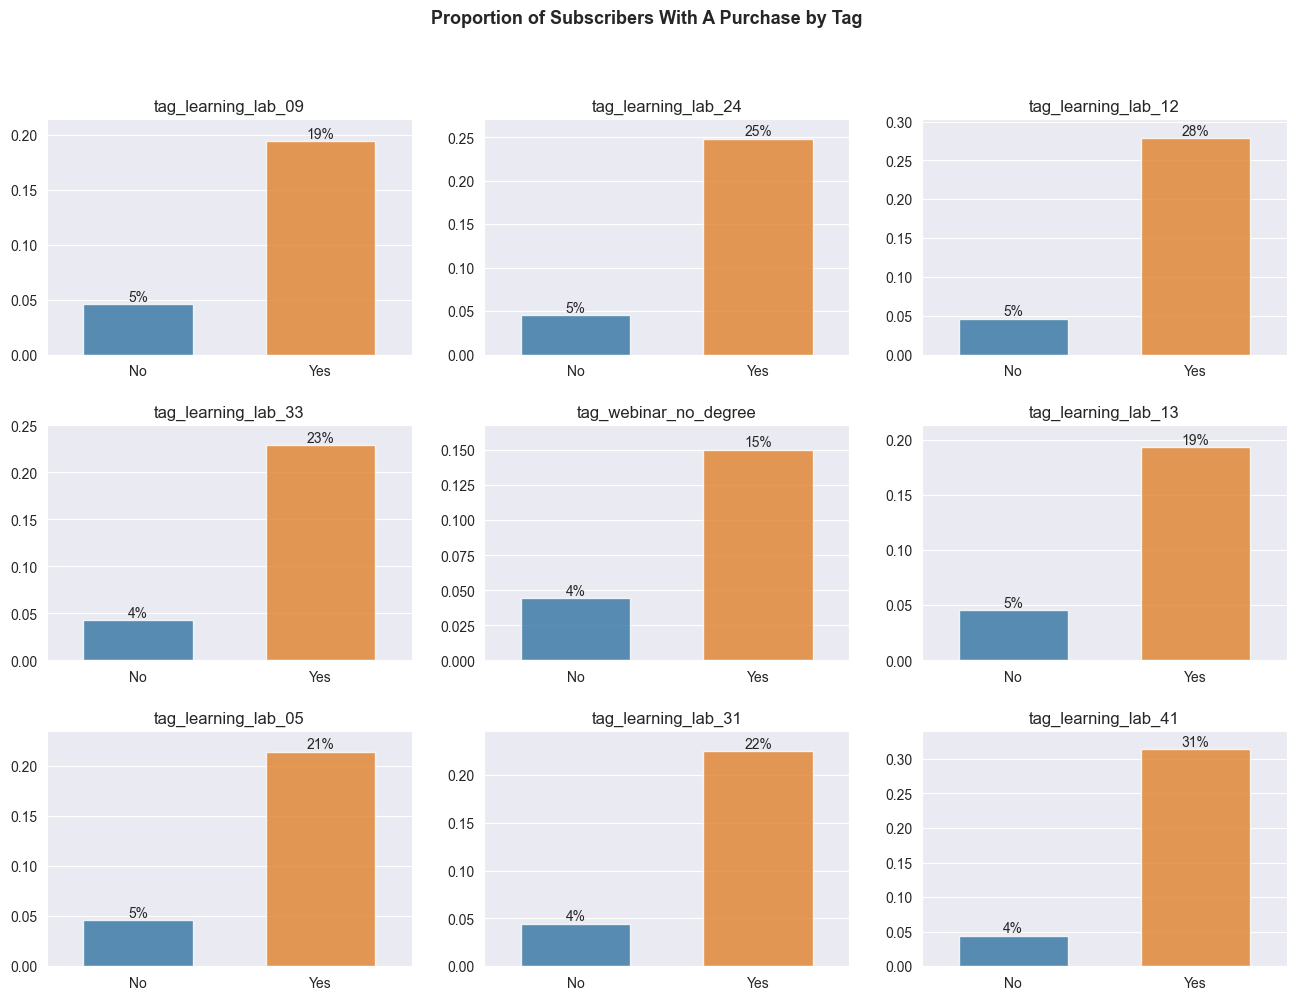
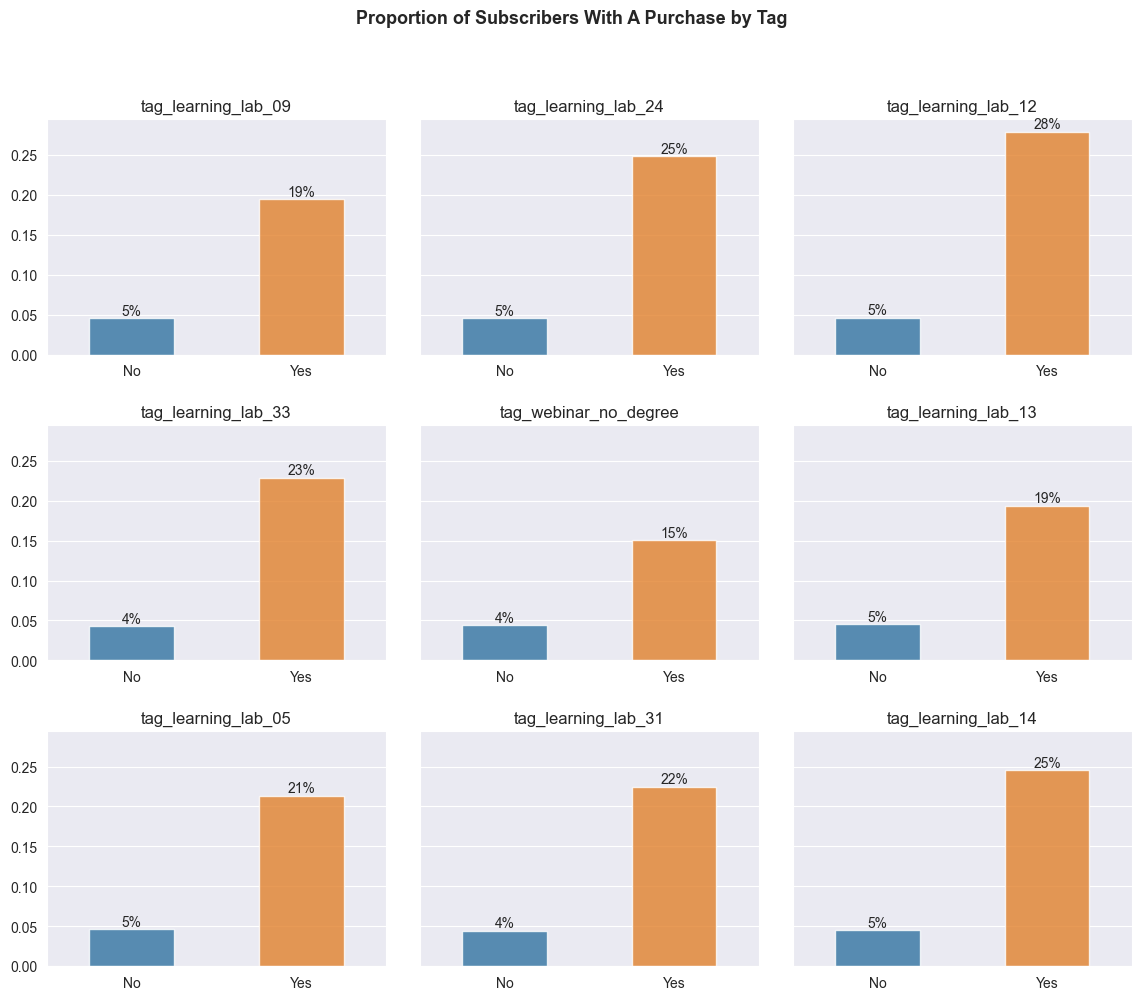
article edits #01

diff --git a/analysis/eda.py b/analysis/eda.py
@@ -3,6 +3,7 @@
 # EDA FOR ANALYSIS WRITE UP
 # ****
 
+
 # ***************************************************************************************************
 # LIBRARIES 
 # ***************************************************************************************************
@@ -14,10 +15,12 @@ from mizani.formatters import *
 import email_lead_scoring as els
 import random
 
+
 # ***************************************************************************************************
 # LOAD DATA 
 # ***************************************************************************************************
 data = els.db_read_els_data()
+
 
 # ***************************************************************************************************
 # EDA ----
@@ -248,7 +251,7 @@ columns = [
     'tag_learning_lab_13',
     'tag_learning_lab_05',
     'tag_learning_lab_31',
-    'tag_learning_lab_41'
+    'tag_learning_lab_14'
 ]
 
 # - Data
@@ -258,8 +261,8 @@ df = df_binary_tags[columns]
 
 # -- Grid setup
 sns.set_style("darkgrid")
-fig, axs = plt.subplots(3, 3, figsize=(16, 11))
-plt.subplots_adjust(wspace=0.2, hspace=0.3)
+fig, axs = plt.subplots(3, 3, figsize=(14, 11), sharey = True)
+plt.subplots_adjust(wspace=0.1, hspace=0.3)
 
 # -- Data Aggregation
 for feat, ax in zip(columns[1:], axs.ravel()):  
@@ -277,7 +280,7 @@ for feat, ax in zip(columns[1:], axs.ravel()):
    
     
     # -- Plot
-    sns.barplot(data = df_feat, x = feat, y = "proportion", alpha = 0.8, width = 0.6, ax = ax)
+    sns.barplot(data = df_feat, x = feat, y = "proportion", alpha = 0.8, width = 0.5, ax = ax)
     
     # -- Data labels
     ax.bar_label(ax.containers[0], labels=['{:.0%}'.format(x) for x in df_feat["proportion"]])
@@ -287,49 +290,17 @@ for feat, ax in zip(columns[1:], axs.ravel()):
     new_ylim = (current_ylim[0], current_ylim[1] + 0.01)
     ax.set_ylim(new_ylim)
     
-    # Axis labs
+    # -- Axis labs
     ax.set_title(f'{feat}')
     ax.set_ylabel(None)
     ax.set_xlabel(None)
     
-     # Overall plot title
+    # -- Remove x axis ticks
+    # ax.set_yticks([])
+    
+     # -- Overall plot title
     fig.suptitle("Proportion of Subscribers With A Purchase by Tag", fontsize = 13, fontweight = "bold")
     plt.show()
     
         
     
-# ***************************************************************************************************
-# ! ARCHIVE
-
-#  Dual Axis Function ----
-sns.set_theme(style="darkgrid", palette=None)
-
-# Subplots
-fig, ax1 = plt.subplots()
-
-# Barplot
-sns.barplot(data=df, x="country_code", y="count", width=0.6, color="#1f77b4", alpha=0.8, ax=ax1)
-
-# Create a second y-axis for made_purchase_proportion
-ax2 = ax1.twinx()
-
-# Plot made_purchase_proportion as a line chart
-sns.lineplot(x='country_code', y='made_purchase_prop', data=df, linewidth=2, markers='o', color="#ffb482", ax=ax2)
-
-# Remove gridliens from second axis
-ax2.grid(b=False)
-
-# Set labels and title
-ax1.set_ylabel('Frequency', fontsize=9)
-ax2.set_ylabel('\n Made Purchase (%)', fontsize=9)
-ax1.set_xlabel('Country Code', fontsize=9)
-ax1.set_title('Count and Made Purchase Proportion', fontsize=12)
-
-# Reduce the fontsize of the axis values
-ax1.tick_params(axis='both', labelsize=8)
-ax2.tick_params(axis='both', labelsize=8)
-
-# Add data labels to the line plot
-for x, y in zip(df['country_code'], df['made_purchase_prop']):
-    ax2.text(x, y, f'{y:.2%}', ha='center', va='bottom', fontsize = 9, fontweight="bold")
-

diff --git a/analysis/analysis_write_up.md b/analysis/analysis_write_up.md
@@ -9,15 +9,15 @@
 ---
 
 <!-- omit in toc -->
-## Table of Contents
+## **Table of Contents**
 
-- [1.0 Introduction](#10-introduction)
-- [2.0 Problem Statement \& Objective](#20-problem-statement--objective)
-  - [2.1 Problem Statement](#21-problem-statement)
-- [2.2 Objective](#22-objective)
-- [3.0 Business Understanding](#30-business-understanding)
-  - [3.1.0 Cost Assessment](#310-cost-assessment)
-- [4.0 Data Understanding](#40-data-understanding)
+- [**1.0 Introduction**](#10-introduction)
+- [**2.0 Problem Statement \& Objective**](#20-problem-statement--objective)
+  - [**2.1 Problem Statement**](#21-problem-statement)
+  - [**2.2 Objective**](#22-objective)
+- [**3.0 Business Understanding**](#30-business-understanding)
+  - [**3.1 Cost Assessment**](#31-cost-assessment)
+- [**4.0 Data Understanding**](#40-data-understanding)
   - [**4.1 Exploratory Data Analysis**](#41-exploratory-data-analysis)
     - [**4.1.1 Proportion of Users with a Previous Purchase**](#411-proportion-of-users-with-a-previous-purchase)
     - [**4.1.2 Member Rating vs Made Purchase**](#412-member-rating-vs-made-purchase)
@@ -25,11 +25,11 @@
     - [**4.1.4 Tag Count vs Made Purchase**](#414-tag-count-vs-made-purchase)
     - [**1.4.5 Correlation**](#145-correlation)
 - [**5.0 Formulating KPIs**](#50-formulating-kpis)
-- [6.0 **Feature Engineering**](#60-feature-engineering)
+- [**6.0 Feature Engineering**](#60-feature-engineering)
 
 <div style="page-break-after: always"></div>
 
-## 1.0 Introduction
+## **1.0 Introduction**
 
 Businesses face challenges in identifying and prioritizing potential customers and/or identifying future purchase potential of current customers based on their email interactions, leading to suboptimal allocation of resourcesa nd missed opportunities.
 
@@ -55,11 +55,13 @@ Above all, the project demonstrates how to solve key business problems in the re
 
 <div style="page-break-after: always"></div>
 
-## 2.0 Problem Statement & Objective
+## **2.0 Problem Statement & Objective**
 
-### 2.1 Problem Statement
+---
 
-As mentioned earlier, this analysis provides a lead scoring solution for a company (Business Science University). The company offers training cources in data science and has a large email list of **100,000** subscribers, with a monthly growth rate of **6,000** new subscribers. The marketing team also sends out **5** emails per month and the business's scales cycle generates approximately **$550,000** in revenue per month.
+### **2.1 Problem Statement**
+
+As mentioned earlier, this analysis provides a lead scoring solution for a company (Business Science University). The company offers training cources (the **product**) in data science and has a large email list of **100,000** subscribers, with a monthly growth rate of **6,000** new subscribers. The marketing team also sends out **5** emails per month and the business's scales cycle generates approximately **$550,000** in revenue per month.
 
 However, the email list also experiences a significant number of unsubscribes, about **500** per email, resulting in a total of **2,500** unsubscribers per month.
 
@@ -67,7 +69,7 @@ This High unsubscribe rate indicates potential inefficiencies in the email marke
 
 ---
 
-## 2.2 Objective
+### **2.2 Objective**
 
 Given these key insights, the problem at hand is to develop an effective email list scoring and segmentation strategy. The goal is to identify and prioritize the most valuable customers while reducing unsubscribe rates and increasing overall customer conversions. By segmenting the email list based on various factors and implementing tailored communication and nurturing strategies, the business aims to optimize the use of marketing resources and enhance revenue generation.
 
@@ -76,9 +78,11 @@ In summary, the primary objective is to leverage email list scoring and segmenta
 Now that we have a general understanding of the problem statement and the objective, the next sections
 will focus on a business solution process using the BSPF.
 
+---
+
 <div style="page-break-after: always"></div>
 
-## 3.0 Business Understanding
+## **3.0 Business Understanding**
 
 We know that tackling business problems such as this requrires alot of resources including
 time and money. Therefore a key question to ask is **is this problem worth solving?.**
@@ -89,14 +93,16 @@ In this phase, the key is to analyze if solving this problem should be a busines
 - Improve Cost Analysis - Improve on cost assesment by account for email list growth uncertainty.
 - Business Cost Simulation - This is also necessary when accounting for uncertainty and helps model cost when key inputs change.
 
-<!-- Page Break -->
+---
 
-#### 3.1.0 Cost Assessment
+### **3.1 Cost Assessment**
 
 Given the values highlighted in the problem statement section, we can estimate the monthly lost revenue (we'll refer to this as **cost** going forward) due to unsubscribers to be around $250K per month (or $3M annually), not factoring in email list growth rate. After factoring in a 3.5% monthly email list growth rate, we can expect the annual lost revenue due to unsubscribers to rise to around $364K per month (or $4.3M per year), an increase of 46% in lost revenue. The table below shows this scenario.
 
 <p align="center" width="100%">
-    <img width="70%" src="png/cost_scenario_table.png" alt="Image" style="display:block; margin:auto;" width="400">
+    <br>
+    <img width="60%" src="png/cost_scenario_table.png" alt="Image" style="display:block; margin:auto;" width="400">
+    <br>
 </p>
 
 We can see the high cost of this problem which is the lost revenue to the business. However, the
@@ -104,45 +110,61 @@ values shown in the table above do not factor in uncertainty. We can thus improv
 our cost assessment by factoring in uncertainty in some of the drivers. Let assume some monthly variablity in email list growth rate and conversion rate. The heatmap below shows a cost simulation with variablity. The *y* axis represents various levels of customer converstion rate while the *x* axis represents various levels of email list growth rate.
 
 <p align="center" width="100%">
+    <br>
     <img width="70%" src="png/cost_simulation.png" alt="Image" style="display:block; margin:auto;" width="400">
+    <br>
 </p>
 
 We can see that regardless of how the drivers vary, we can still expect to see annual costs ranging from $2.61M to $4.38M. Thus this is definitely a problem worth solving.
 
 At this point, a key question is can we reduce the unsubscribe rate. Recall that the business is loosing
-500 customers for every email sent out. What if we can reduce that number by 50% or 250.
+500 customers for every email sent out. What if we can reduce that number by 50% or 250, while maintaning 90% of revenue. What impact will that have on the business?
 
-## 4.0 Data Understanding
+The only problem is that we still do not know a lot about what causes a subscriber to make a purchase. If we do we can focus on targeting the ones that are more likely to purchase with sales emails and nurture the ones who are unlikely to covert. This will help with our goal of reducing the unsubsbribe rate while maintaning 90% of revenue.
 
-The next step is to understand the data available at our disposal to tackle this problem.
-The visual below gives an overview of the companies crm database including table and table descriptions. Connecting arrows show how each table can be connecting to other tables based on common fields.
+---
+
+## **4.0 Data Understanding**
+
+This phase requires understanding the data available at our disposal to tackle this problem.
+The visual below gives an overview of the companies crm database including table and field descriptions. Connecting arrows show how each table can be connecting to other tables based on common fields.
 
 <p align="center" width="100%">
+    <br>
     <img width="80%" src="png/crm_database.png" alt="Image" style="display:block; margin:auto;" width="400">
+    <br>
 </p>
 
 Note that we will not be using the website table for this analysis.
 
+---
+
 ### **4.1 Exploratory Data Analysis**
 
-After some initial data manipulation to get the data in the right format we need for analysis, including adding a *target* feature which is a binary flag of if a user has made a previous purchase or not (we'll call this target feature **made_purchase**), we can then begin to do some initial exploratory analysis to get a sense what features in our dataset could be predictive of users making a purchase.
+After some initial data manipulation to get the data in the right format we need for analysis, including adding a **target** feature which is a binary flag of if a user has made a previous purchase or not (we'll call this target feature **made_purchase**), we can then begin to do some initial exploratory analysis to get a sense what features in our dataset could be predictive of users making a purchase.
 
 First lets analyze our target feature *made_purchase*:
 
 #### **4.1.1 Proportion of Users with a Previous Purchase**
 
 <p align="center" width="100%">
+    <br>
     <img width="60%" src="png/made_purchase_prop.png" alt="Image" style="display:block; margin:auto;" width="400">
+    <br>
 </p>
 
 **Observation:** Only 5% of users have made a previous purchase, meaning we are dealing with a highly imbalanced dataset.
+
+---
 
 #### **4.1.2 Member Rating vs Made Purchase**
 
 The plot below shows the different values of *member_rating* vs the proportion of *made_purchase* for users with each value of *member_rating*:
 
 <p align="center" width="100%">
+    <br>
     <img width="60%" src="png/member_rating_vs_made_purchase.png" alt="Image" style="display:block; margin:auto;" width="400">
+    <br>
 </p>
 
 **Observation:** Member rating appears to be quite predictive of *made_purchase*. We can see that the likelihood of a user making a purchase increases 3x when the *member_rating* goes from 1 to 2. Additionally the likelihood of making a purchase increases 5x when the *member_rating* goes from 2 to 5.
@@ -162,10 +184,12 @@ The plot below shows *country_code* along with the within group *made_purchase* 
 The plot below shows *tag_count* along with the within group *made_purchase* proportion, for a selected number of *tag_count*. Recall that tags here refer to various events like trainings and webinars. Therefore *tag_count* refers to the number of such events a user has attended:
 
 <p align="center" width="100%">
+    <br>
     <img width="60%" src="png/tags_vs_made_purchase.png" alt="Image" style="display:block; margin:auto;" width="400">
+    <br>
 </p>
 
-**Observation:** We can see that if a user has 40 or more tags (events), they are 100% likely to make a purchase. That likelihood drops as *tag_count* decreases. Note that a users with 0 tags only have a 2% likelihood of making a purchase. For these users (with 0 tags) we may not want to send them emails just yet. We may want to try and nurture them to attend more events before trying to get them to make a purchase. Overall if the business can get users to attend more events, it drastically increases their likelihood of making a purchase.
+**Observation:** We can see that if a subscriber has 40 or more tags (events), they are 100% likely to make a purchase. That likelihood drops as *tag_count* decreases. Note that a subscriber with 0 tags only have a 2% likelihood of making a purchase. For those with 0 tags (meaning they have not attended any events yet) we may not want to send them emails just yet. We may want to try and nurture them to attend more events before trying to get them to make a purchase. Overall if the business can get subscribers to attend more events, it drastically increases their likelihood of making a purchase.
 
 <br>
 
@@ -174,31 +198,37 @@ The plot below shows *tag_count* along with the within group *made_purchase* pro
 The plot below is a correlation heatmap of numberic features only. These correlation values further validatates some of the data we saw earlier. We can see that *tag_count* and *member_rating* do show a fairly high correlation with *made_purchase*.
 
 <p align="center" width="100%">
+    <br>
     <img width="60%" src="png/corr_heatmap.png" alt="Image" style="display:block; margin:auto;" width="400">
+    <br>
 </p>
 
 <br>
+
+---
 
 ## **5.0 Formulating KPIs**
 
 Now that we have a bit more understanding of some of the potential drivers of *made_purchase*, we may want to develop some hypothesis about how to improve the likelihood of a user making a purchase by applying some of the insights we just learned. For example:
 
-- Can we reduce the number of sales emails sent to users by 30% and still maintain 99% of sales revenue.
+- Can we reduce the number of sales emails sent to subscribers by 30% and still maintain 99% of sales revenue.
 
-- Can we segment our email list into **hot** and **cold** leads. Hot leads meaning users
-who are more likely to purchase (users with high *member_rating* for example), and cold leads meaning user less likely to purchase (users with low *member_rating*). This way we could come up with a strategy to only send sales emails to hot leads, while nuturing cold leads to increase their likelihood of purchase.
+- Can we segment our email list into **hot** and **cold** leads. Hot leads meaning those
+who are more likely to purchase (subscribers with high *member_rating* for example), and cold leads meaning those less likely to purchase (subscribers with low *member_rating*). This way we could come up with a strategy to only send sales emails to hot leads, while nuturing cold leads to increase their likelihood of purchase.
 
-One of such KPIs could be to increase the median *tag_count*. Looking at the table below, we can see that the median *tag_count* for users who have not made a purchase is 0 while for those who have made a purchase, the median *tag_count* is 2. Thus we could establsh a KPI for cold leads to get their median tag count to 2 or more (attend 2 or more webinars/events) and increase their likelihood of making a purchase.
+One of such KPIs could be to increase the median *tag_count*. Looking at the table below, we can see that the median *tag_count* for those who have not made a purchase is 0 while for those who have made a purchase, the median *tag_count* is 2. Thus we could establsh a KPI for cold leads to get their median tag count to 2 or more (attend 2 or more webinars/events) and increase their likelihood of making a purchase.
 
 <p align="center" width="100%">
+    <br>
     <img width="70%" src="png/kpi.png" alt="Image" style="display:block; margin:auto;" width="400">
+    <br>
 </p>
 
-<br>
+---
 
 <div style="page-break-after: always"></div>
 
-## 6.0 **Feature Engineering**
+## **6.0 Feature Engineering**
 
 Now that we have a better understand of our data and what features might be predictive of a subscriber
 making a purchase, the next phase in our workflow is creating preprocessing pipelines to get our data in the right form for machine learning algorithms. [Feature Engineering](https://towardsdatascience.com/what-is-feature-engineering-importance-tools-and-techniques-for-machine-learning-2080b0269f10) is the process of selecting, manipulation and transforming raw data into features that can be used in supervised learning.
@@ -213,8 +243,12 @@ For this analysis, the following addition features were created from existing da
 4. One-To-Many Features (Tags) - These are binary features (0s or 1s) for each tag (event) to indicate if a user attend the event or not.
 5. Reducing High Cardinality - Applied to *country_code*. Using a threshold of 6, this process lumps countries that have less than 6 subscribers in the dataset into an ***other** category in*country_code*.
 
-The plot below shows and example of some of the new features created and their relationship with our target *made_purchase*. The plot shows the likelihood of making a purchase based on 9 randomly selected tags (events). Looking at one example (Learning Lab 09) we can see that if a subsriber attened that event, they have a 19% likelihood of making a purchase vs only 5% if they did not attend the event.  We can also see similar trends for the other tags, indicating that having these additional features could be very indicative of *made_purchase*.
+To demonstrate the importance of feature engineering in this analysis, we'll show an example of some of the new features created and their relationship with our target *made_purchase*. The plot below shows the proportion of subscribers who made a purchase for 9 randomly selected tags (events). Looking at one example (Learning Lab 09) we can see that if a subsriber attended that event, they have a 19% likelihood of making a purchase vs only 5% if they did not attend the event. For learning lab 12, the likelihood of making a purchase if they attended the event is 28% vs 5% if they did not. We can also see similar trends for the other tags.
 
 <p align="center" width="100%">
+    <br>
     <img width="100%" src="png/attended_event_vs_made_purchase_prop.png" alt="Image" style="display:block; margin:auto;" width="400">
+    <br>
 </p>
+
+This indicates  that having these additional features could be very indicative of *made_purchase*.
